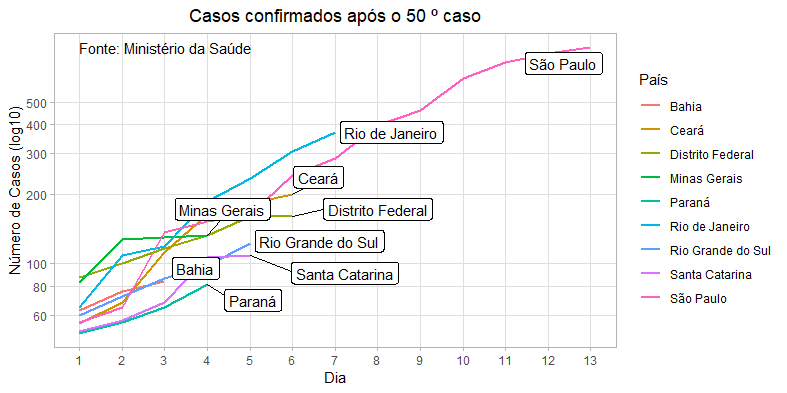
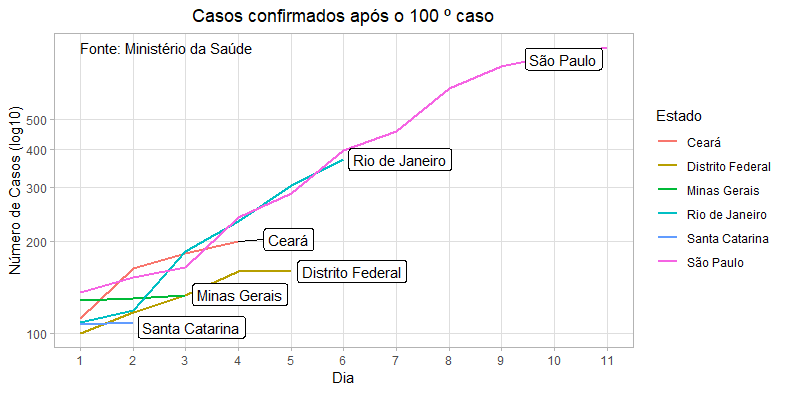
COVID19: Comparação estados

diff --git a/covid-19/index.html b/covid-19/index.html
@@ -104,7 +104,8 @@
                 <h5>Comparação entre Unidades da Federação</h5>
                 <img id="dist" class="plot" src="data/Distribuição.png">
                 <img src="data/EstadosAnim.gif">      
-                <img id="dist" class="plot" src="data/Casos por Habitantes.png">                          
+                <img class="plot" src="data/Casos por Habitantes.png">
+                <img class="plot" src="data/Comparação Estados.png">
                 
                 <h5 id="comp">Comparação com outros países</h5>
                 <p>Os dados de comparação com outros países possuem um "atraso" de um dia. Isso porque os dados são compilados pelo Our World in Data até as 14h (horário de Brasília, GMT -3), quando os dados oficiais mais recentes do Brasil normalmente são os do dia anterior.</p>
